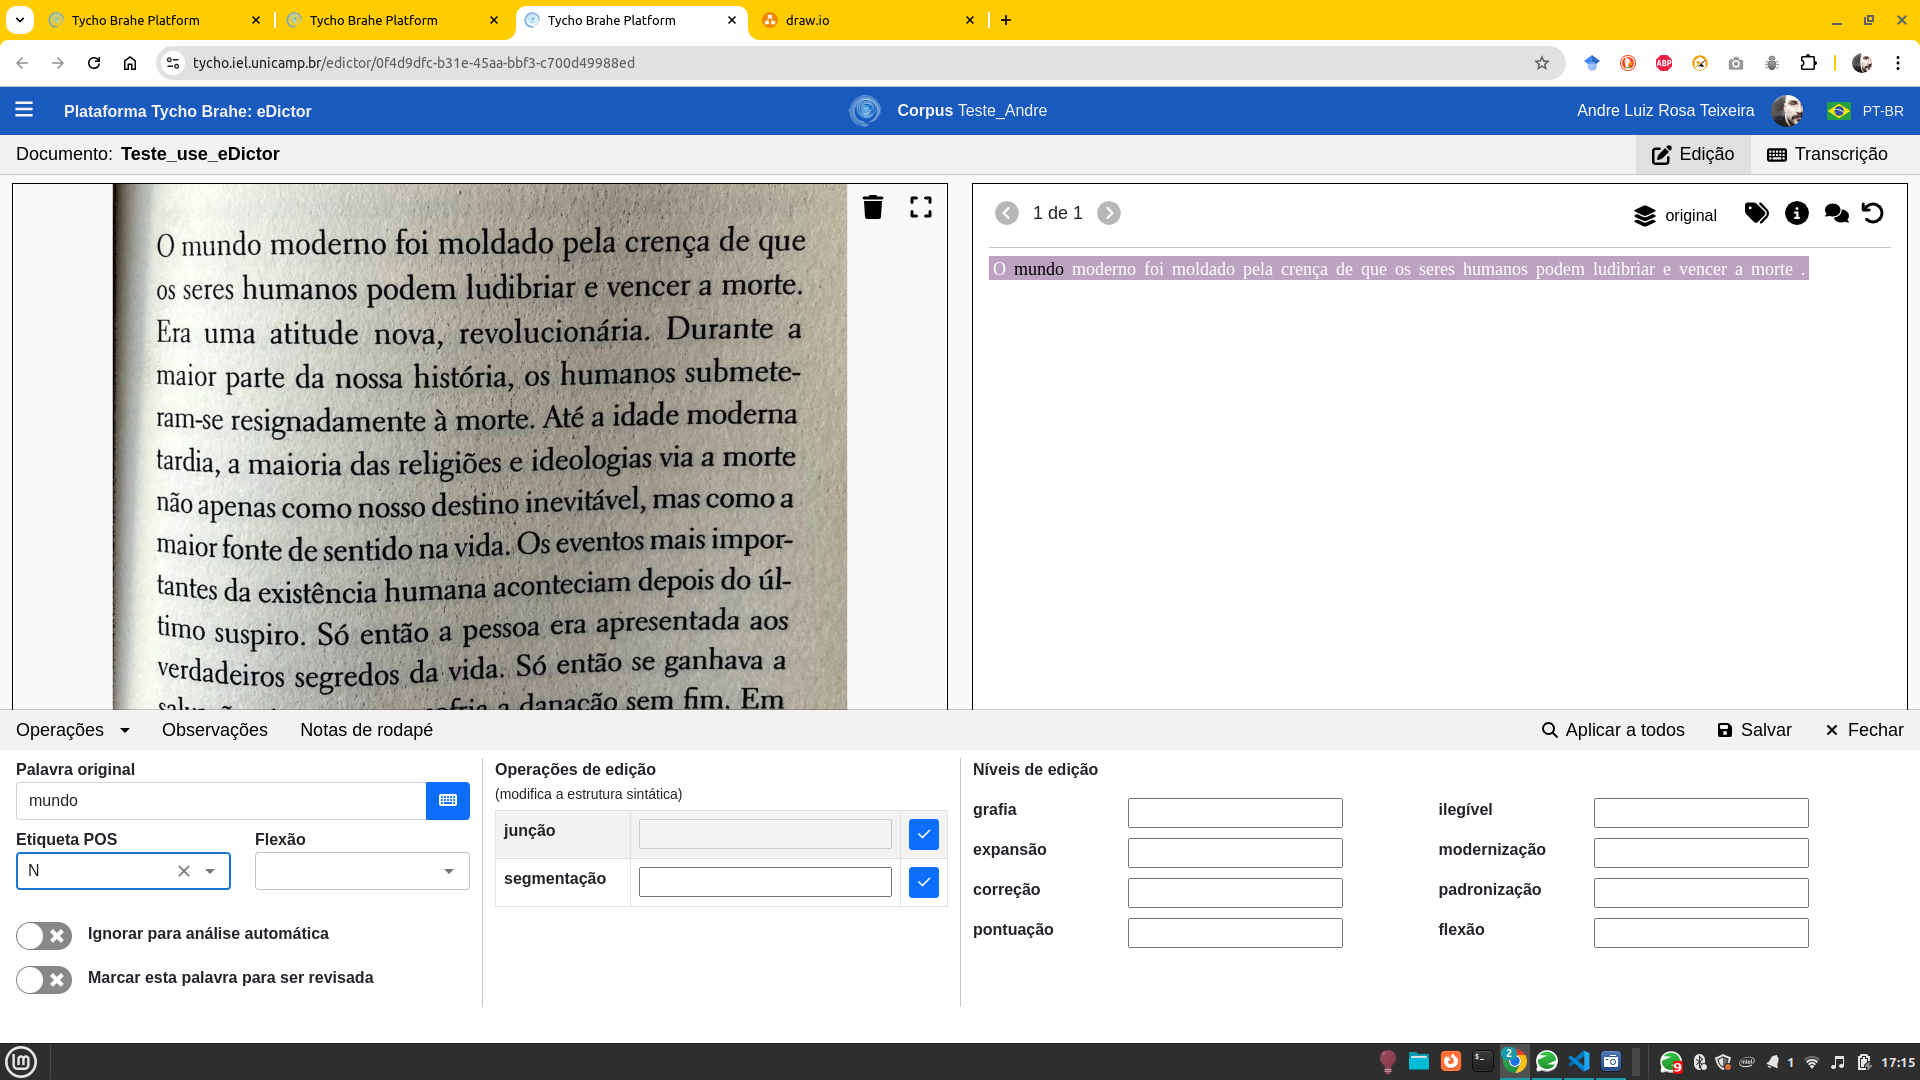
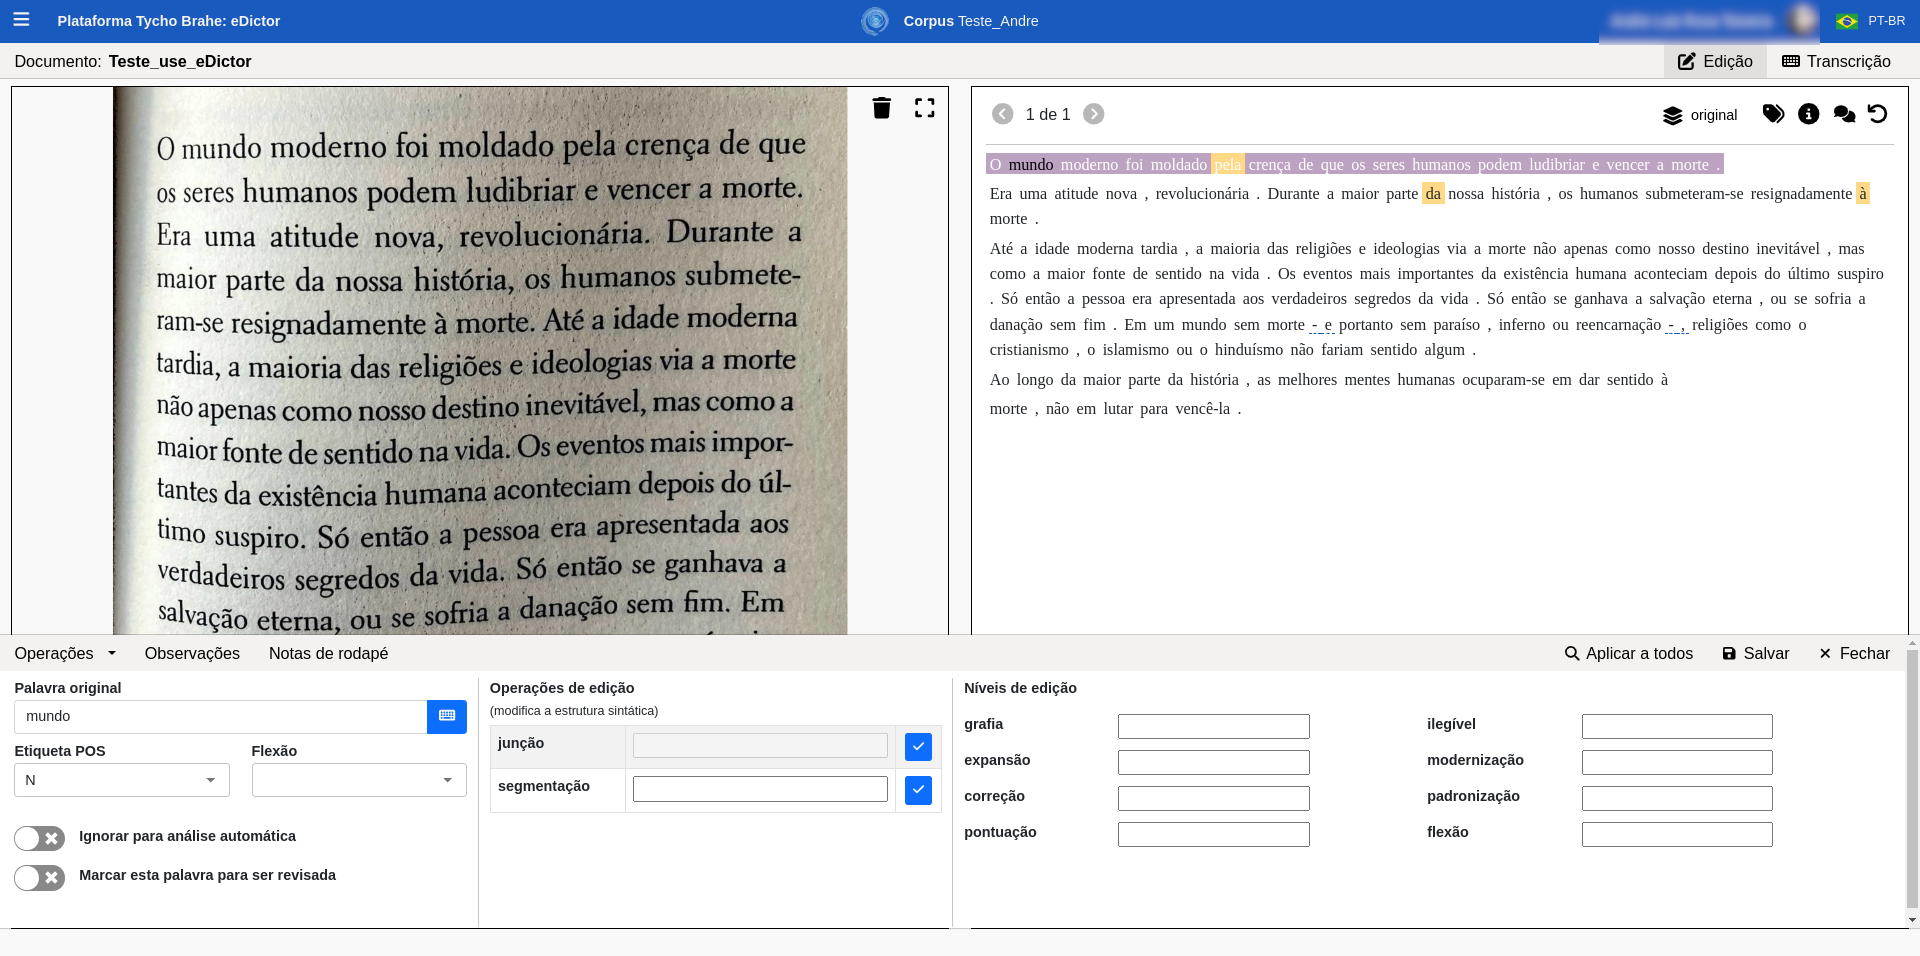
Atualização 25 nov - Cont use eDictor

diff --git a/documentacao_md/documentacao.md b/documentacao_md/documentacao.md
@@ -859,30 +859,39 @@ Figura x: Adicionando documento para use eDictor.
 ![Upload arquivo para transcrição](../imagens/use_edictor_3.png)
 Figura x: Upload de documento para eDictor.
 
-![Seleciona arquivo](../imagens/use_edictor_3.png)
-Figura x: Selecionando arquivo para eDictor.
-
 ![Confirma arquivo](../imagens/use_edictor_4-5.png)
 Figura x: Envio do aquivo para eDictor.
 
 4. Transcrições:
-   **Manual**: Clicar o botão "Transcrição" para abrir o campo de preenchimento manual das transcrições do texto da imagem inserida.
-   **Automática**: Clicar o botão "extrair texto de imagem" no canto superior direito para realizar a transcrição automática a partir do texto da imagem.
-5. Preencher transcrições e salvar.
-6. Clicar ícone de "ir para o modo edição" para preparar o texto para receber edições.
-7. Etiquetagem e outras edições:
-   **Manual**: Clicar sobre palavra que deseja editar e realizar as edições desejadas:
+   **Manual**: Clique o botão "Transcrição" para abrir o campo de preenchimento manual das transcrições do texto da imagem inserida.
 
-   - Operações: inserir palavras, dividir, juntar com a próxima, spliter, remover.
-   - Observações: adicionar observações.
-   - Notas de rodapé: adicionar notas de rodapé
-   - Edição da palavra original.
-   - Etiqueta POS.
-   - Flexão
-   - Botão de alternância para "Ignorar para análise automática".
-   - Botão de alternância para "Marcar esta palavra para ser revisada".
-   - Operações de edição: junção e segmentação
-   - Níveis de edição: grafia, expansão, correção, pontuação, ilegível, modernização, padronização, flexão.
+![EDictor transcrição](../imagens/use_edictor_6.png)
+
+**Automática**: Clique o botão "extrair texto de imagem"(T), no canto superior direito, para realizar a transcrição automática a partir da imagem com texto.
+
+![Extração texto de imagem](../imagens/use_edictor_11.png)
+Figura x: Transcrição automática - extrair texto da imagem
+
+5. Preenchidas as transcrições, manualmente ou automaticamente, salve as alterações clicando no ícone em [2].
+
+![Salvar transcrição](../imagens/use_edictor_7.png)
+Figura x: Salvando uma transcrição .
+
+6. Clique no ícone de "ir para o modo edição" para preparar o texto para receber edições.
+
+![Selecionando edição](../imagens/use_edictor_8.png) 7. Etiquetagem e outras edições:
+**Manual**: Clicar sobre palavra que deseja editar e realizar as edições desejadas:
+
+- Operações: inserir palavras, dividir, juntar com a próxima, spliter, remover.
+- Observações: adicionar observações.
+- Notas de rodapé: adicionar notas de rodapé
+- Edição da palavra original.
+- Etiqueta POS.
+- Flexão
+- Botão de alternância para "Ignorar para análise automática".
+- Botão de alternância para "Marcar esta palavra para ser revisada".
+- Operações de edição: junção e segmentação
+- Níveis de edição: grafia, expansão, correção, pontuação, ilegível, modernização, padronização, flexão.
 
 **Automática**: há duas maneiras de acessar as orações para realizar o _parser_ e revisar/editar a etiquetagem. Ao acessar o "exibir informações" do documento, selecionar:
 
